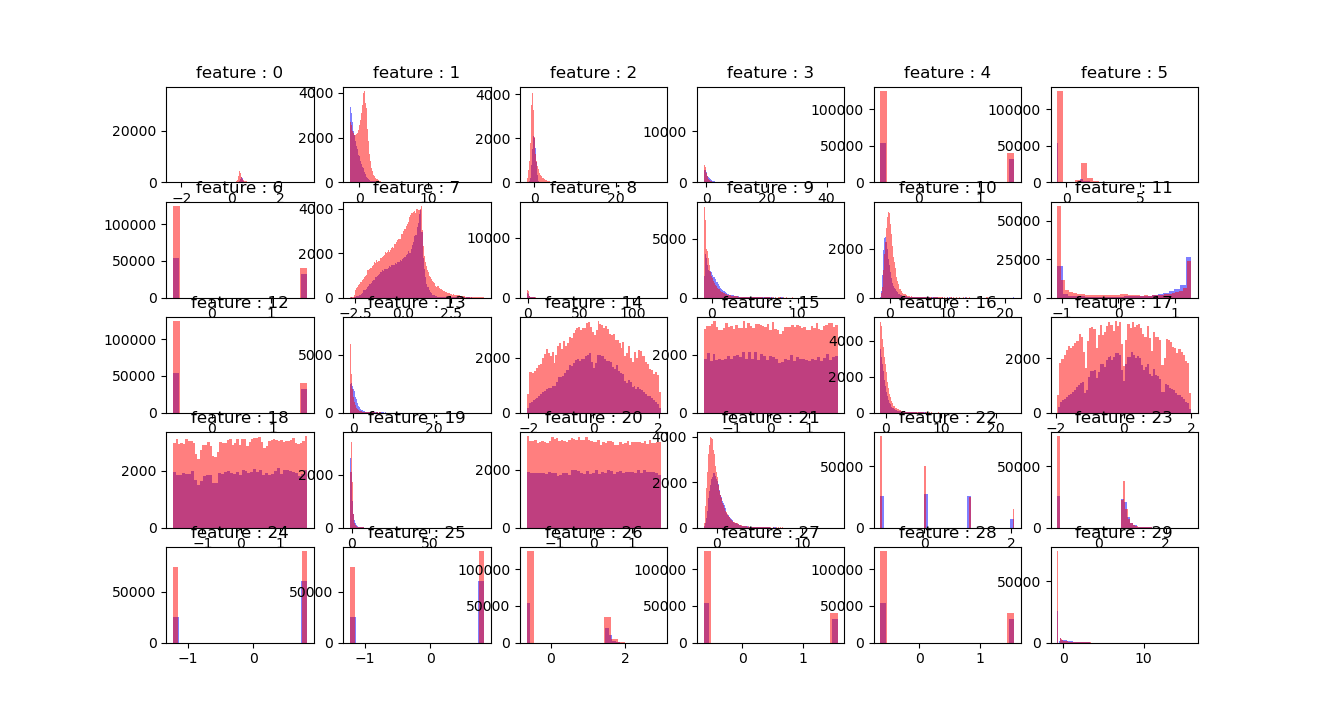
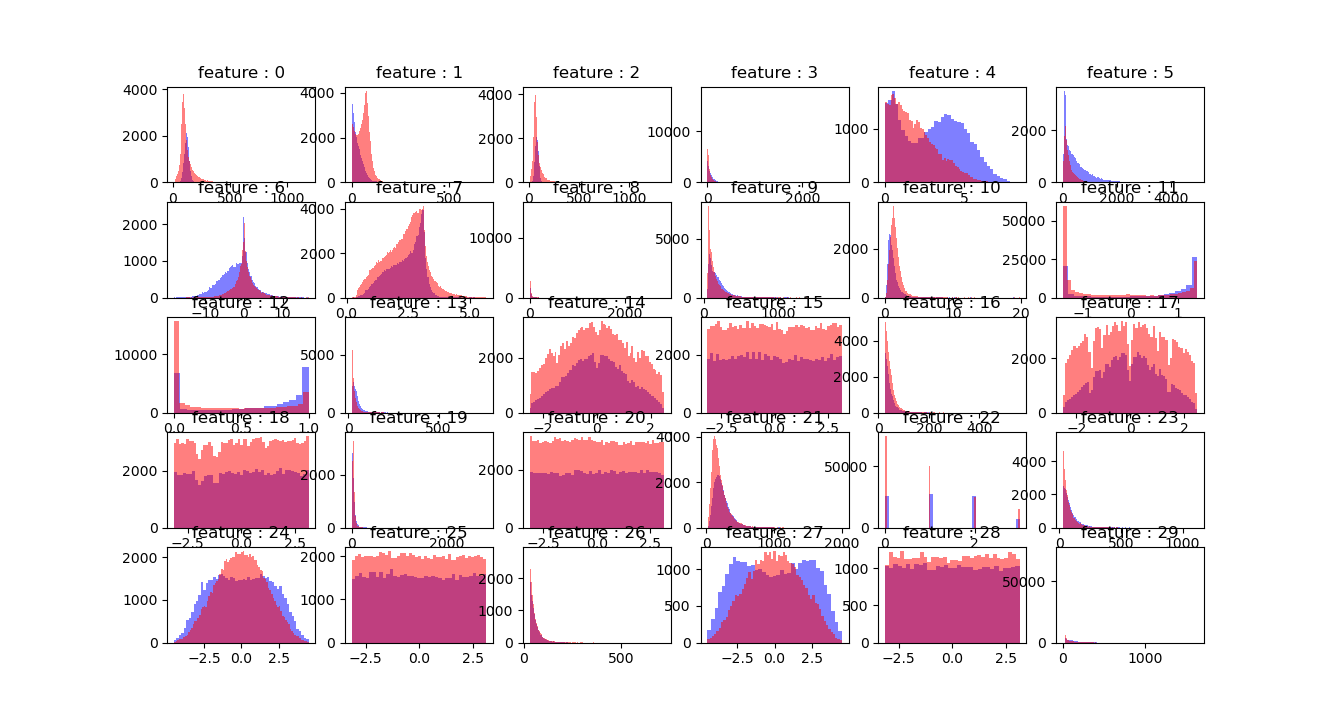
fixed data exploration and new figures

diff --git a/scripts/data_exploration.py b/scripts/data_exploration.py
@@ -132,11 +132,8 @@ if __name__ == '__main__':
     # Data visualization
     # Standardization
     y, xbis, ids = load_csv_data("data/train.csv")
-    col_means = np.nanmean(xbis, axis=0)
-    col_sd = np.nanstd(xbis, axis=0)
 
-    xbis = (xbis - col_means) / col_sd
-
+    xbis = set_nan(xbis)
     # Histograms to show the distribution of each feature, colored depending on hit/miss
     figure1 = plt.figure(1)
     for i in range(30):
@@ -162,8 +159,8 @@ if __name__ == '__main__':
         kf = k[y == -1]
         kt = kt[~np.isnan(kt)]
         kf = kf[~np.isnan(kf)]
-        kthist = np.histogram(kt, bins=L, range=(k.min(), k.max()))
-        kfhist = np.histogram(kf, bins=L, range=(k.min(), k.max()))
+        kthist = np.histogram(kt, bins=L, range=(np.min(k[~np.isnan(k)]), np.max(k[~np.isnan(k)])))
+        kfhist = np.histogram(kf, bins=L, range=(np.min(k[~np.isnan(k)]), np.max(k[~np.isnan(k)])))
         for j in range(L):
             if kfhist[0][j] == 0 or kthist[0][j] == 0:
                 ratio[j] = 0
